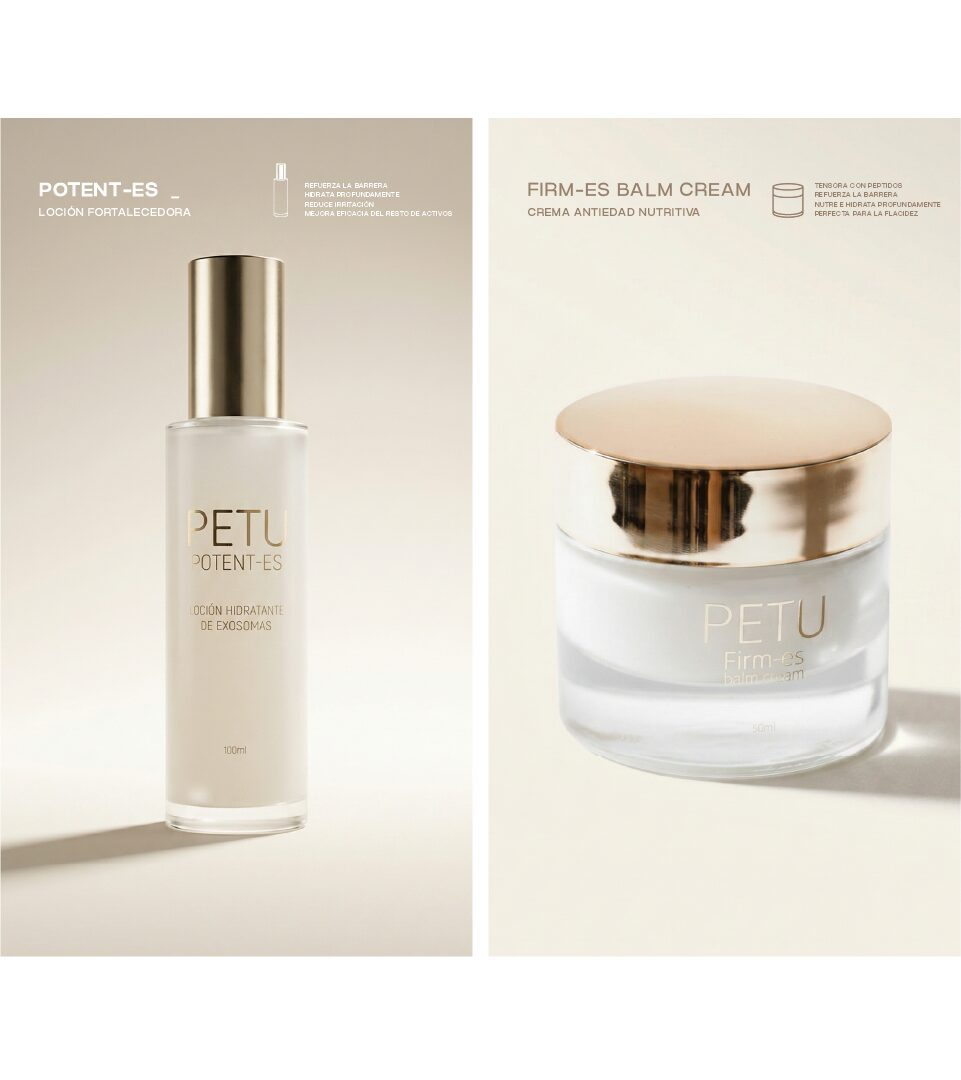
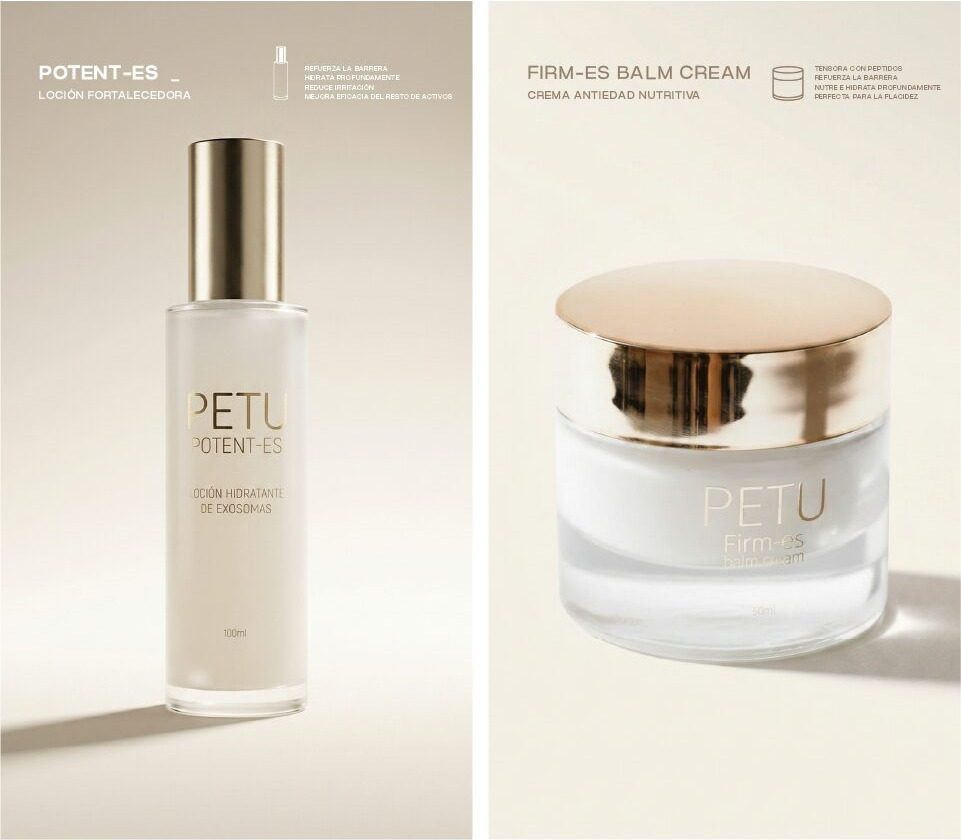
Nueva web: ajustes de móvil (proyectos animados al hacer scroll, sin servicios, espaciados homogéneos), pie de pruebas de estilo, cursivas en línea base, productos de Petu juntos
Claude-Session: https://claude.ai/code/session_01XDNfayxeR62aFf33XbtqM7

diff --git a/nueva/proyecto-astana.html b/nueva/proyecto-astana.html
@@ -73,8 +73,9 @@ section[aria-label="Siguiente proyecto"] .p9-media img{animation:none!important;
 .vs-proj:hover svg,.vs-proj:focus-visible svg{transform:rotate(180deg)}
 @media (max-width:820px){.vs-bar{padding:16px 18px}.vs-logo img{height:40px}.vs-bar a.vs-proj{font-size:13px;margin-top:8px;padding:7px 12px 7px 10px}}
 .p9-cards .p9-media{max-height:calc(100svh - 240px)}
+.p9-card.is-play .p9-media video{opacity:1}
 .p9-cards a[href="proyecto-berasategui.html"] .p9-media img,.p9-cards a[href="proyecto-berasategui.html"] .p9-media video{object-position:center 15%}
-#estudio-v8 h1 em{vertical-align:0.7em}
+#estudio-v8 h1 em{vertical-align:baseline}
 #llamada8 em{vertical-align:1em}
 @media (min-width:821px){header.v8-hero{height:100vh!important;height:100svh!important}
 .v8-tile img{aspect-ratio:auto!important;height:min(56.25vw,86vh)!important}
@@ -101,7 +102,10 @@ button{font-family:inherit}
   footer{aspect-ratio:auto!important;min-height:30rem!important;width:100%}
   section[aria-label="Siguiente proyecto"] .p9-media{aspect-ratio:4/3!important}
   .p9-card>div[style*="grid-template-columns"]{grid-template-columns:minmax(0,1fr)!important;gap:6px!important}
-  .p9-card .p9-more[style*="text-align: right"]{text-align:left!important}
+  .p9-card .p9-more[style*="text-align: right"]{display:none!important}
+  div[style="height: 120px"],div[style="height: 104px"]{height:48px!important}
+  section[aria-label="Siguiente proyecto"]{margin-top:72px!important}
+  section[aria-label="Contenido orgánico en Instagram"]{padding-top:56px!important;padding-bottom:48px!important}
   .v8-tile span{bottom:16px!important}
   .v8-row span{text-align:left!important}
   footer{aspect-ratio:4/5!important;min-height:0!important}
@@ -167,7 +171,7 @@ button{font-family:inherit}
 </figure>
 </div>
 
-<div class="m-row" style="display: grid; grid-template-columns: repeat(3, minmax(0, 1fr)); gap: 16px; align-items: start">
+<figure style="margin: 0; display: flex; flex-direction: column; gap: 12px"><div data-tight style="display: grid; grid-template-columns: repeat(3, minmax(0, 1fr)); gap: 16px; align-items: start">
 <figure style="margin: 0; display: flex; flex-direction: column; gap: 12px">
 <div style="border-radius: 10px; overflow: hidden; aspect-ratio: 1344 / 768; background: #eee"><img src="assets/8a1b4d2636.jpg" alt="Prueba de estilo pintado" style="width: 100%; height: 100%; object-fit: cover; display: block"></div>
 </figure>
@@ -177,12 +181,10 @@ button{font-family:inherit}
 <figure style="margin: 0; display: flex; flex-direction: column; gap: 12px">
 <div style="border-radius: 10px; overflow: hidden; aspect-ratio: 1344 / 768; background: #eee"><img src="assets/682499dd0d.jpg" alt="Prueba de estilo escultura" style="width: 100%; height: 100%; object-fit: cover; display: block"></div>
 </figure>
-</div>
-
-<p style="margin: -40px 0 0; font-size: 14px; color: #5c5c5c">Pruebas de estilo antes de quedarnos con el óleo</p>
+</div><figcaption style="font-size: 14px; color: #5c5c5c">Pruebas de estilo antes de quedarnos con el óleo</figcaption></figure>
 </section>
 <section style="padding: 136px clamp(28px, 6vw, 96px)">
-<p class="m-statement" style="margin: 0 auto; max-width: 1040px; text-align: center; font-family: 'Big Shoulders Display', sans-serif; font-weight: 800; font-size: clamp(44px, 5.6vw, 88px); line-height: 0.92; text-transform: uppercase">En un festival que premiaba la perfección, <em style="font-family: 'Libre Caslon Text', serif; font-weight: 400; font-style: italic; text-transform: none; font-size: 0.62em">elegimos equivocarnos.</em></p>
+<p class="m-statement" style="margin: 0 auto; max-width: 1040px; text-align: center; font-family: 'Big Shoulders Display', sans-serif; font-weight: 800; font-size: clamp(44px, 5.6vw, 88px); line-height: 0.92; text-transform: uppercase">En un festival que premiaba la perfección, <em style="font-family: 'Libre Caslon Text', serif; font-weight: 400; font-style: italic; text-transform: none; font-size: 0.62em; vertical-align: baseline">elegimos equivocarnos.</em></p>
 </section>
 <section class="p9-12" style="padding: 0 clamp(28px, 6vw, 96px); row-gap: 32px">
 <h2 style="grid-column: 1 / span 4; margin: 0; font-size: 13px; font-weight: 500; color: #5c5c5c">Todas las capas de una película</h2>
@@ -277,6 +279,10 @@ button{font-family:inherit}
     document.documentElement.classList.add('has-cur');
     document.addEventListener('mousemove',function(e){cur.style.transform='translate('+e.clientX+'px,'+e.clientY+'px)';cur.classList.add('on')});
     document.documentElement.addEventListener('mouseleave',function(){cur.classList.remove('on')});
+  }
+  if(window.matchMedia('(hover:none)').matches&&'IntersectionObserver' in window&&!reduce){
+    var io=new IntersectionObserver(function(es){es.forEach(function(e){var c=e.target,v=c.querySelector('.p9-media video');if(!v)return;if(e.intersectionRatio>=0.6){c.classList.add('is-play');v.muted=true;var p=v.play();if(p&&p.catch)p.catch(function(){})}else{c.classList.remove('is-play');v.pause()}})},{threshold:[0,0.6]});
+    document.querySelectorAll('.p9-cards .p9-card').forEach(function(c){io.observe(c)});
   }
   document.querySelectorAll('.p9-card,.v8-tile').forEach(function(c){
     var v=c.querySelector('.p9-media video');

diff --git a/nueva/proyecto-petu.html b/nueva/proyecto-petu.html
@@ -73,8 +73,9 @@ section[aria-label="Siguiente proyecto"] .p9-media img{animation:none!important;
 .vs-proj:hover svg,.vs-proj:focus-visible svg{transform:rotate(180deg)}
 @media (max-width:820px){.vs-bar{padding:16px 18px}.vs-logo img{height:40px}.vs-bar a.vs-proj{font-size:13px;margin-top:8px;padding:7px 12px 7px 10px}}
 .p9-cards .p9-media{max-height:calc(100svh - 240px)}
+.p9-card.is-play .p9-media video{opacity:1}
 .p9-cards a[href="proyecto-berasategui.html"] .p9-media img,.p9-cards a[href="proyecto-berasategui.html"] .p9-media video{object-position:center 15%}
-#estudio-v8 h1 em{vertical-align:0.7em}
+#estudio-v8 h1 em{vertical-align:baseline}
 #llamada8 em{vertical-align:1em}
 @media (min-width:821px){header.v8-hero{height:100vh!important;height:100svh!important}
 .v8-tile img{aspect-ratio:auto!important;height:min(56.25vw,86vh)!important}
@@ -101,7 +102,10 @@ button{font-family:inherit}
   footer{aspect-ratio:auto!important;min-height:30rem!important;width:100%}
   section[aria-label="Siguiente proyecto"] .p9-media{aspect-ratio:4/3!important}
   .p9-card>div[style*="grid-template-columns"]{grid-template-columns:minmax(0,1fr)!important;gap:6px!important}
-  .p9-card .p9-more[style*="text-align: right"]{text-align:left!important}
+  .p9-card .p9-more[style*="text-align: right"]{display:none!important}
+  div[style="height: 120px"],div[style="height: 104px"]{height:48px!important}
+  section[aria-label="Siguiente proyecto"]{margin-top:72px!important}
+  section[aria-label="Contenido orgánico en Instagram"]{padding-top:56px!important;padding-bottom:48px!important}
   .v8-tile span{bottom:16px!important}
   .v8-row span{text-align:left!important}
   footer{aspect-ratio:4/5!important;min-height:0!important}
@@ -157,10 +161,10 @@ button{font-family:inherit}
 <section style="padding: 0 clamp(28px, 6vw, 96px); display: flex; flex-direction: column; gap: 56px" class="m-block">
 <div data-tight class="m-row" style="display: grid; grid-template-columns: repeat(2, minmax(0, 1fr)); gap: 6px; align-items: start; width: min(100%, 1280px); margin: 0 auto">
 <figure style="margin: 0; display: flex; flex-direction: column; gap: 12px">
-<div style="border-radius: 10px; overflow: hidden; aspect-ratio: 961 / 1080; background: #eee"><img src="assets/82af8024f4.jpg" alt="Bodegón de Potent-es y Firm-es Balm Cream" style="width: 100%; height: 100%; object-fit: cover; display: block"></div>
+<div style="border-radius: 10px; overflow: hidden; aspect-ratio: 961 / 839; background: #eee"><img src="assets/82af8024f4.jpg" alt="Bodegón de Potent-es y Firm-es Balm Cream" style="width: 100%; height: 100%; object-fit: cover; display: block"></div>
 </figure>
 <figure style="margin: 0; display: flex; flex-direction: column; gap: 12px">
-<div style="border-radius: 10px; overflow: hidden; aspect-ratio: 961 / 1080; background: #eee"><img src="assets/cebb6206ea.jpg" alt="Bodegón de Retin-es Ultra y Luz-C" style="width: 100%; height: 100%; object-fit: cover; display: block"></div>
+<div style="border-radius: 10px; overflow: hidden; aspect-ratio: 961 / 839; background: #eee"><img src="assets/cebb6206ea.jpg" alt="Bodegón de Retin-es Ultra y Luz-C" style="width: 100%; height: 100%; object-fit: cover; display: block"></div>
 </figure>
 </div>
 
@@ -262,6 +266,10 @@ button{font-family:inherit}
     document.documentElement.classList.add('has-cur');
     document.addEventListener('mousemove',function(e){cur.style.transform='translate('+e.clientX+'px,'+e.clientY+'px)';cur.classList.add('on')});
     document.documentElement.addEventListener('mouseleave',function(){cur.classList.remove('on')});
+  }
+  if(window.matchMedia('(hover:none)').matches&&'IntersectionObserver' in window&&!reduce){
+    var io=new IntersectionObserver(function(es){es.forEach(function(e){var c=e.target,v=c.querySelector('.p9-media video');if(!v)return;if(e.intersectionRatio>=0.6){c.classList.add('is-play');v.muted=true;var p=v.play();if(p&&p.catch)p.catch(function(){})}else{c.classList.remove('is-play');v.pause()}})},{threshold:[0,0.6]});
+    document.querySelectorAll('.p9-cards .p9-card').forEach(function(c){io.observe(c)});
   }
   document.querySelectorAll('.p9-card,.v8-tile').forEach(function(c){
     var v=c.querySelector('.p9-media video');

diff --git a/nueva/proyecto-barcelona.html b/nueva/proyecto-barcelona.html
@@ -73,8 +73,9 @@ section[aria-label="Siguiente proyecto"] .p9-media img{animation:none!important;
 .vs-proj:hover svg,.vs-proj:focus-visible svg{transform:rotate(180deg)}
 @media (max-width:820px){.vs-bar{padding:16px 18px}.vs-logo img{height:40px}.vs-bar a.vs-proj{font-size:13px;margin-top:8px;padding:7px 12px 7px 10px}}
 .p9-cards .p9-media{max-height:calc(100svh - 240px)}
+.p9-card.is-play .p9-media video{opacity:1}
 .p9-cards a[href="proyecto-berasategui.html"] .p9-media img,.p9-cards a[href="proyecto-berasategui.html"] .p9-media video{object-position:center 15%}
-#estudio-v8 h1 em{vertical-align:0.7em}
+#estudio-v8 h1 em{vertical-align:baseline}
 #llamada8 em{vertical-align:1em}
 @media (min-width:821px){header.v8-hero{height:100vh!important;height:100svh!important}
 .v8-tile img{aspect-ratio:auto!important;height:min(56.25vw,86vh)!important}
@@ -101,7 +102,10 @@ button{font-family:inherit}
   footer{aspect-ratio:auto!important;min-height:30rem!important;width:100%}
   section[aria-label="Siguiente proyecto"] .p9-media{aspect-ratio:4/3!important}
   .p9-card>div[style*="grid-template-columns"]{grid-template-columns:minmax(0,1fr)!important;gap:6px!important}
-  .p9-card .p9-more[style*="text-align: right"]{text-align:left!important}
+  .p9-card .p9-more[style*="text-align: right"]{display:none!important}
+  div[style="height: 120px"],div[style="height: 104px"]{height:48px!important}
+  section[aria-label="Siguiente proyecto"]{margin-top:72px!important}
+  section[aria-label="Contenido orgánico en Instagram"]{padding-top:56px!important;padding-bottom:48px!important}
   .v8-tile span{bottom:16px!important}
   .v8-row span{text-align:left!important}
   footer{aspect-ratio:4/5!important;min-height:0!important}
@@ -230,6 +234,10 @@ button{font-family:inherit}
     document.documentElement.classList.add('has-cur');
     document.addEventListener('mousemove',function(e){cur.style.transform='translate('+e.clientX+'px,'+e.clientY+'px)';cur.classList.add('on')});
     document.documentElement.addEventListener('mouseleave',function(){cur.classList.remove('on')});
+  }
+  if(window.matchMedia('(hover:none)').matches&&'IntersectionObserver' in window&&!reduce){
+    var io=new IntersectionObserver(function(es){es.forEach(function(e){var c=e.target,v=c.querySelector('.p9-media video');if(!v)return;if(e.intersectionRatio>=0.6){c.classList.add('is-play');v.muted=true;var p=v.play();if(p&&p.catch)p.catch(function(){})}else{c.classList.remove('is-play');v.pause()}})},{threshold:[0,0.6]});
+    document.querySelectorAll('.p9-cards .p9-card').forEach(function(c){io.observe(c)});
   }
   document.querySelectorAll('.p9-card,.v8-tile').forEach(function(c){
     var v=c.querySelector('.p9-media video');

diff --git a/nueva/proyecto-berasategui.html b/nueva/proyecto-berasategui.html
@@ -73,8 +73,9 @@ section[aria-label="Siguiente proyecto"] .p9-media img{animation:none!important;
 .vs-proj:hover svg,.vs-proj:focus-visible svg{transform:rotate(180deg)}
 @media (max-width:820px){.vs-bar{padding:16px 18px}.vs-logo img{height:40px}.vs-bar a.vs-proj{font-size:13px;margin-top:8px;padding:7px 12px 7px 10px}}
 .p9-cards .p9-media{max-height:calc(100svh - 240px)}
+.p9-card.is-play .p9-media video{opacity:1}
 .p9-cards a[href="proyecto-berasategui.html"] .p9-media img,.p9-cards a[href="proyecto-berasategui.html"] .p9-media video{object-position:center 15%}
-#estudio-v8 h1 em{vertical-align:0.7em}
+#estudio-v8 h1 em{vertical-align:baseline}
 #llamada8 em{vertical-align:1em}
 @media (min-width:821px){header.v8-hero{height:100vh!important;height:100svh!important}
 .v8-tile img{aspect-ratio:auto!important;height:min(56.25vw,86vh)!important}
@@ -101,7 +102,10 @@ button{font-family:inherit}
   footer{aspect-ratio:auto!important;min-height:30rem!important;width:100%}
   section[aria-label="Siguiente proyecto"] .p9-media{aspect-ratio:4/3!important}
   .p9-card>div[style*="grid-template-columns"]{grid-template-columns:minmax(0,1fr)!important;gap:6px!important}
-  .p9-card .p9-more[style*="text-align: right"]{text-align:left!important}
+  .p9-card .p9-more[style*="text-align: right"]{display:none!important}
+  div[style="height: 120px"],div[style="height: 104px"]{height:48px!important}
+  section[aria-label="Siguiente proyecto"]{margin-top:72px!important}
+  section[aria-label="Contenido orgánico en Instagram"]{padding-top:56px!important;padding-bottom:48px!important}
   .v8-tile span{bottom:16px!important}
   .v8-row span{text-align:left!important}
   footer{aspect-ratio:4/5!important;min-height:0!important}
@@ -254,6 +258,10 @@ button{font-family:inherit}
     document.documentElement.classList.add('has-cur');
     document.addEventListener('mousemove',function(e){cur.style.transform='translate('+e.clientX+'px,'+e.clientY+'px)';cur.classList.add('on')});
     document.documentElement.addEventListener('mouseleave',function(){cur.classList.remove('on')});
+  }
+  if(window.matchMedia('(hover:none)').matches&&'IntersectionObserver' in window&&!reduce){
+    var io=new IntersectionObserver(function(es){es.forEach(function(e){var c=e.target,v=c.querySelector('.p9-media video');if(!v)return;if(e.intersectionRatio>=0.6){c.classList.add('is-play');v.muted=true;var p=v.play();if(p&&p.catch)p.catch(function(){})}else{c.classList.remove('is-play');v.pause()}})},{threshold:[0,0.6]});
+    document.querySelectorAll('.p9-cards .p9-card').forEach(function(c){io.observe(c)});
   }
   document.querySelectorAll('.p9-card,.v8-tile').forEach(function(c){
     var v=c.querySelector('.p9-media video');

diff --git a/nueva/proyecto-holy-run.html b/nueva/proyecto-holy-run.html
@@ -73,8 +73,9 @@ section[aria-label="Siguiente proyecto"] .p9-media img{animation:none!important;
 .vs-proj:hover svg,.vs-proj:focus-visible svg{transform:rotate(180deg)}
 @media (max-width:820px){.vs-bar{padding:16px 18px}.vs-logo img{height:40px}.vs-bar a.vs-proj{font-size:13px;margin-top:8px;padding:7px 12px 7px 10px}}
 .p9-cards .p9-media{max-height:calc(100svh - 240px)}
+.p9-card.is-play .p9-media video{opacity:1}
 .p9-cards a[href="proyecto-berasategui.html"] .p9-media img,.p9-cards a[href="proyecto-berasategui.html"] .p9-media video{object-position:center 15%}
-#estudio-v8 h1 em{vertical-align:0.7em}
+#estudio-v8 h1 em{vertical-align:baseline}
 #llamada8 em{vertical-align:1em}
 @media (min-width:821px){header.v8-hero{height:100vh!important;height:100svh!important}
 .v8-tile img{aspect-ratio:auto!important;height:min(56.25vw,86vh)!important}
@@ -101,7 +102,10 @@ button{font-family:inherit}
   footer{aspect-ratio:auto!important;min-height:30rem!important;width:100%}
   section[aria-label="Siguiente proyecto"] .p9-media{aspect-ratio:4/3!important}
   .p9-card>div[style*="grid-template-columns"]{grid-template-columns:minmax(0,1fr)!important;gap:6px!important}
-  .p9-card .p9-more[style*="text-align: right"]{text-align:left!important}
+  .p9-card .p9-more[style*="text-align: right"]{display:none!important}
+  div[style="height: 120px"],div[style="height: 104px"]{height:48px!important}
+  section[aria-label="Siguiente proyecto"]{margin-top:72px!important}
+  section[aria-label="Contenido orgánico en Instagram"]{padding-top:56px!important;padding-bottom:48px!important}
   .v8-tile span{bottom:16px!important}
   .v8-row span{text-align:left!important}
   footer{aspect-ratio:4/5!important;min-height:0!important}
@@ -235,6 +239,10 @@ button{font-family:inherit}
     document.documentElement.classList.add('has-cur');
     document.addEventListener('mousemove',function(e){cur.style.transform='translate('+e.clientX+'px,'+e.clientY+'px)';cur.classList.add('on')});
     document.documentElement.addEventListener('mouseleave',function(){cur.classList.remove('on')});
+  }
+  if(window.matchMedia('(hover:none)').matches&&'IntersectionObserver' in window&&!reduce){
+    var io=new IntersectionObserver(function(es){es.forEach(function(e){var c=e.target,v=c.querySelector('.p9-media video');if(!v)return;if(e.intersectionRatio>=0.6){c.classList.add('is-play');v.muted=true;var p=v.play();if(p&&p.catch)p.catch(function(){})}else{c.classList.remove('is-play');v.pause()}})},{threshold:[0,0.6]});
+    document.querySelectorAll('.p9-cards .p9-card').forEach(function(c){io.observe(c)});
   }
   document.querySelectorAll('.p9-card,.v8-tile').forEach(function(c){
     var v=c.querySelector('.p9-media video');

diff --git a/nueva/proyecto-jammer.html b/nueva/proyecto-jammer.html
@@ -73,8 +73,9 @@ section[aria-label="Siguiente proyecto"] .p9-media img{animation:none!important;
 .vs-proj:hover svg,.vs-proj:focus-visible svg{transform:rotate(180deg)}
 @media (max-width:820px){.vs-bar{padding:16px 18px}.vs-logo img{height:40px}.vs-bar a.vs-proj{font-size:13px;margin-top:8px;padding:7px 12px 7px 10px}}
 .p9-cards .p9-media{max-height:calc(100svh - 240px)}
+.p9-card.is-play .p9-media video{opacity:1}
 .p9-cards a[href="proyecto-berasategui.html"] .p9-media img,.p9-cards a[href="proyecto-berasategui.html"] .p9-media video{object-position:center 15%}
-#estudio-v8 h1 em{vertical-align:0.7em}
+#estudio-v8 h1 em{vertical-align:baseline}
 #llamada8 em{vertical-align:1em}
 @media (min-width:821px){header.v8-hero{height:100vh!important;height:100svh!important}
 .v8-tile img{aspect-ratio:auto!important;height:min(56.25vw,86vh)!important}
@@ -101,7 +102,10 @@ button{font-family:inherit}
   footer{aspect-ratio:auto!important;min-height:30rem!important;width:100%}
   section[aria-label="Siguiente proyecto"] .p9-media{aspect-ratio:4/3!important}
   .p9-card>div[style*="grid-template-columns"]{grid-template-columns:minmax(0,1fr)!important;gap:6px!important}
-  .p9-card .p9-more[style*="text-align: right"]{text-align:left!important}
+  .p9-card .p9-more[style*="text-align: right"]{display:none!important}
+  div[style="height: 120px"],div[style="height: 104px"]{height:48px!important}
+  section[aria-label="Siguiente proyecto"]{margin-top:72px!important}
+  section[aria-label="Contenido orgánico en Instagram"]{padding-top:56px!important;padding-bottom:48px!important}
   .v8-tile span{bottom:16px!important}
   .v8-row span{text-align:left!important}
   footer{aspect-ratio:4/5!important;min-height:0!important}
@@ -253,6 +257,10 @@ button{font-family:inherit}
     document.documentElement.classList.add('has-cur');
     document.addEventListener('mousemove',function(e){cur.style.transform='translate('+e.clientX+'px,'+e.clientY+'px)';cur.classList.add('on')});
     document.documentElement.addEventListener('mouseleave',function(){cur.classList.remove('on')});
+  }
+  if(window.matchMedia('(hover:none)').matches&&'IntersectionObserver' in window&&!reduce){
+    var io=new IntersectionObserver(function(es){es.forEach(function(e){var c=e.target,v=c.querySelector('.p9-media video');if(!v)return;if(e.intersectionRatio>=0.6){c.classList.add('is-play');v.muted=true;var p=v.play();if(p&&p.catch)p.catch(function(){})}else{c.classList.remove('is-play');v.pause()}})},{threshold:[0,0.6]});
+    document.querySelectorAll('.p9-cards .p9-card').forEach(function(c){io.observe(c)});
   }
   document.querySelectorAll('.p9-card,.v8-tile').forEach(function(c){
     var v=c.querySelector('.p9-media video');

diff --git a/nueva/proyecto-tsl.html b/nueva/proyecto-tsl.html
@@ -73,8 +73,9 @@ section[aria-label="Siguiente proyecto"] .p9-media img{animation:none!important;
 .vs-proj:hover svg,.vs-proj:focus-visible svg{transform:rotate(180deg)}
 @media (max-width:820px){.vs-bar{padding:16px 18px}.vs-logo img{height:40px}.vs-bar a.vs-proj{font-size:13px;margin-top:8px;padding:7px 12px 7px 10px}}
 .p9-cards .p9-media{max-height:calc(100svh - 240px)}
+.p9-card.is-play .p9-media video{opacity:1}
 .p9-cards a[href="proyecto-berasategui.html"] .p9-media img,.p9-cards a[href="proyecto-berasategui.html"] .p9-media video{object-position:center 15%}
-#estudio-v8 h1 em{vertical-align:0.7em}
+#estudio-v8 h1 em{vertical-align:baseline}
 #llamada8 em{vertical-align:1em}
 @media (min-width:821px){header.v8-hero{height:100vh!important;height:100svh!important}
 .v8-tile img{aspect-ratio:auto!important;height:min(56.25vw,86vh)!important}
@@ -101,7 +102,10 @@ button{font-family:inherit}
   footer{aspect-ratio:auto!important;min-height:30rem!important;width:100%}
   section[aria-label="Siguiente proyecto"] .p9-media{aspect-ratio:4/3!important}
   .p9-card>div[style*="grid-template-columns"]{grid-template-columns:minmax(0,1fr)!important;gap:6px!important}
-  .p9-card .p9-more[style*="text-align: right"]{text-align:left!important}
+  .p9-card .p9-more[style*="text-align: right"]{display:none!important}
+  div[style="height: 120px"],div[style="height: 104px"]{height:48px!important}
+  section[aria-label="Siguiente proyecto"]{margin-top:72px!important}
+  section[aria-label="Contenido orgánico en Instagram"]{padding-top:56px!important;padding-bottom:48px!important}
   .v8-tile span{bottom:16px!important}
   .v8-row span{text-align:left!important}
   footer{aspect-ratio:4/5!important;min-height:0!important}
@@ -251,6 +255,10 @@ button{font-family:inherit}
     document.documentElement.classList.add('has-cur');
     document.addEventListener('mousemove',function(e){cur.style.transform='translate('+e.clientX+'px,'+e.clientY+'px)';cur.classList.add('on')});
     document.documentElement.addEventListener('mouseleave',function(){cur.classList.remove('on')});
+  }
+  if(window.matchMedia('(hover:none)').matches&&'IntersectionObserver' in window&&!reduce){
+    var io=new IntersectionObserver(function(es){es.forEach(function(e){var c=e.target,v=c.querySelector('.p9-media video');if(!v)return;if(e.intersectionRatio>=0.6){c.classList.add('is-play');v.muted=true;var p=v.play();if(p&&p.catch)p.catch(function(){})}else{c.classList.remove('is-play');v.pause()}})},{threshold:[0,0.6]});
+    document.querySelectorAll('.p9-cards .p9-card').forEach(function(c){io.observe(c)});
   }
   document.querySelectorAll('.p9-card,.v8-tile').forEach(function(c){
     var v=c.querySelector('.p9-media video');

diff --git a/nueva/index.html b/nueva/index.html
@@ -49,8 +49,9 @@ section[aria-label="Siguiente proyecto"] .p9-media img{animation:none!important;
 .vs-proj:hover svg,.vs-proj:focus-visible svg{transform:rotate(180deg)}
 @media (max-width:820px){.vs-bar{padding:16px 18px}.vs-logo img{height:40px}.vs-bar a.vs-proj{font-size:13px;margin-top:8px;padding:7px 12px 7px 10px}}
 .p9-cards .p9-media{max-height:calc(100svh - 240px)}
+.p9-card.is-play .p9-media video{opacity:1}
 .p9-cards a[href="proyecto-berasategui.html"] .p9-media img,.p9-cards a[href="proyecto-berasategui.html"] .p9-media video{object-position:center 15%}
-#estudio-v8 h1 em{vertical-align:0.7em}
+#estudio-v8 h1 em{vertical-align:baseline}
 #llamada8 em{vertical-align:1em}
 @media (min-width:821px){header.v8-hero{height:100vh!important;height:100svh!important}
 .v8-tile img{aspect-ratio:auto!important;height:min(56.25vw,86vh)!important}
@@ -77,7 +78,10 @@ button{font-family:inherit}
   footer{aspect-ratio:auto!important;min-height:30rem!important;width:100%}
   section[aria-label="Siguiente proyecto"] .p9-media{aspect-ratio:4/3!important}
   .p9-card>div[style*="grid-template-columns"]{grid-template-columns:minmax(0,1fr)!important;gap:6px!important}
-  .p9-card .p9-more[style*="text-align: right"]{text-align:left!important}
+  .p9-card .p9-more[style*="text-align: right"]{display:none!important}
+  div[style="height: 120px"],div[style="height: 104px"]{height:48px!important}
+  section[aria-label="Siguiente proyecto"]{margin-top:72px!important}
+  section[aria-label="Contenido orgánico en Instagram"]{padding-top:56px!important;padding-bottom:48px!important}
   .v8-tile span{bottom:16px!important}
   .v8-row span{text-align:left!important}
   footer{aspect-ratio:4/5!important;min-height:0!important}
@@ -250,6 +254,10 @@ button{font-family:inherit}
     document.documentElement.classList.add('has-cur');
     document.addEventListener('mousemove',function(e){cur.style.transform='translate('+e.clientX+'px,'+e.clientY+'px)';cur.classList.add('on')});
     document.documentElement.addEventListener('mouseleave',function(){cur.classList.remove('on')});
+  }
+  if(window.matchMedia('(hover:none)').matches&&'IntersectionObserver' in window&&!reduce){
+    var io=new IntersectionObserver(function(es){es.forEach(function(e){var c=e.target,v=c.querySelector('.p9-media video');if(!v)return;if(e.intersectionRatio>=0.6){c.classList.add('is-play');v.muted=true;var p=v.play();if(p&&p.catch)p.catch(function(){})}else{c.classList.remove('is-play');v.pause()}})},{threshold:[0,0.6]});
+    document.querySelectorAll('.p9-cards .p9-card').forEach(function(c){io.observe(c)});
   }
   document.querySelectorAll('.p9-card,.v8-tile').forEach(function(c){
     var v=c.querySelector('.p9-media video');

diff --git a/nueva/proyectos.html b/nueva/proyectos.html
@@ -68,8 +68,9 @@ section[aria-label="Siguiente proyecto"] .p9-media img{animation:none!important;
 .vs-proj:hover svg,.vs-proj:focus-visible svg{transform:rotate(180deg)}
 @media (max-width:820px){.vs-bar{padding:16px 18px}.vs-logo img{height:40px}.vs-bar a.vs-proj{font-size:13px;margin-top:8px;padding:7px 12px 7px 10px}}
 .p9-cards .p9-media{max-height:calc(100svh - 240px)}
+.p9-card.is-play .p9-media video{opacity:1}
 .p9-cards a[href="proyecto-berasategui.html"] .p9-media img,.p9-cards a[href="proyecto-berasategui.html"] .p9-media video{object-position:center 15%}
-#estudio-v8 h1 em{vertical-align:0.7em}
+#estudio-v8 h1 em{vertical-align:baseline}
 #llamada8 em{vertical-align:1em}
 @media (min-width:821px){header.v8-hero{height:100vh!important;height:100svh!important}
 .v8-tile img{aspect-ratio:auto!important;height:min(56.25vw,86vh)!important}
@@ -96,7 +97,10 @@ button{font-family:inherit}
   footer{aspect-ratio:auto!important;min-height:30rem!important;width:100%}
   section[aria-label="Siguiente proyecto"] .p9-media{aspect-ratio:4/3!important}
   .p9-card>div[style*="grid-template-columns"]{grid-template-columns:minmax(0,1fr)!important;gap:6px!important}
-  .p9-card .p9-more[style*="text-align: right"]{text-align:left!important}
+  .p9-card .p9-more[style*="text-align: right"]{display:none!important}
+  div[style="height: 120px"],div[style="height: 104px"]{height:48px!important}
+  section[aria-label="Siguiente proyecto"]{margin-top:72px!important}
+  section[aria-label="Contenido orgánico en Instagram"]{padding-top:56px!important;padding-bottom:48px!important}
   .v8-tile span{bottom:16px!important}
   .v8-row span{text-align:left!important}
   footer{aspect-ratio:4/5!important;min-height:0!important}
@@ -242,6 +246,10 @@ button{font-family:inherit}
     document.documentElement.classList.add('has-cur');
     document.addEventListener('mousemove',function(e){cur.style.transform='translate('+e.clientX+'px,'+e.clientY+'px)';cur.classList.add('on')});
     document.documentElement.addEventListener('mouseleave',function(){cur.classList.remove('on')});
+  }
+  if(window.matchMedia('(hover:none)').matches&&'IntersectionObserver' in window&&!reduce){
+    var io=new IntersectionObserver(function(es){es.forEach(function(e){var c=e.target,v=c.querySelector('.p9-media video');if(!v)return;if(e.intersectionRatio>=0.6){c.classList.add('is-play');v.muted=true;var p=v.play();if(p&&p.catch)p.catch(function(){})}else{c.classList.remove('is-play');v.pause()}})},{threshold:[0,0.6]});
+    document.querySelectorAll('.p9-cards .p9-card').forEach(function(c){io.observe(c)});
   }
   document.querySelectorAll('.p9-card,.v8-tile').forEach(function(c){
     var v=c.querySelector('.p9-media video');
